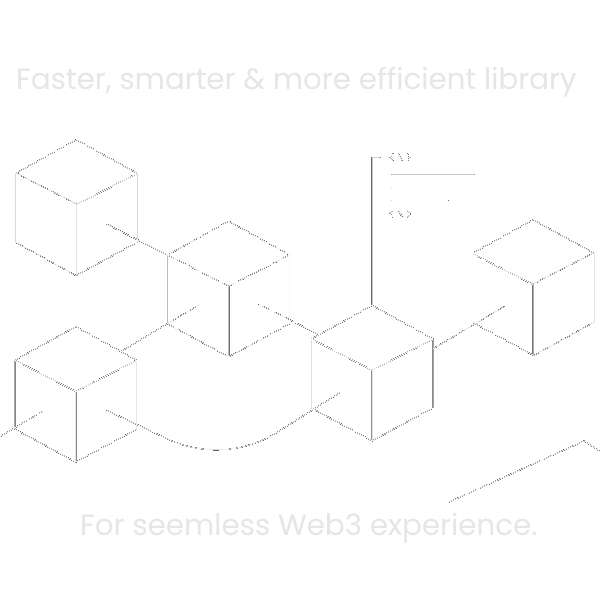
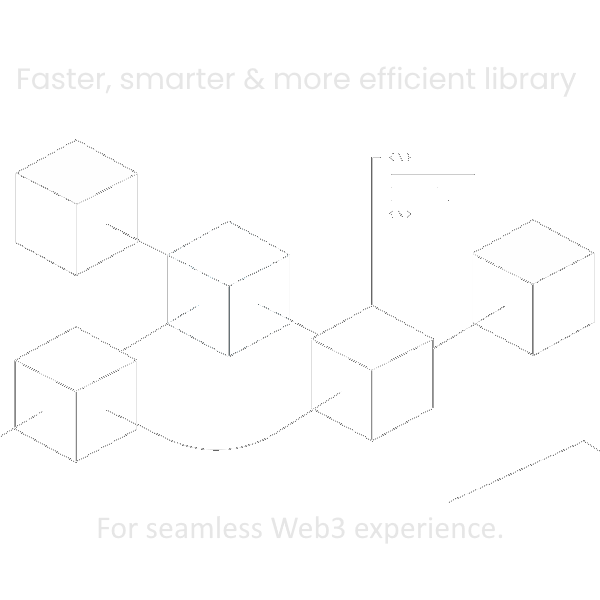
architecture + some changes

Changed region(s): [[0.15, 0.84, 0.9, 0.9]]

diff --git a/fresh.gen.ts b/fresh.gen.ts
@@ -8,13 +8,13 @@ import * as $about from "./routes/about.tsx";
 import * as $index from "./routes/index.tsx";
 import * as $roadmap from "./routes/roadmap.tsx";
 import * as $stats from "./routes/stats.tsx";
-import * as $Button from "./islands/Button.tsx";
-import * as $MarketBar from "./islands/MarketBar.tsx";
-import * as $MarketData from "./islands/MarketData.tsx";
-import * as $Web3Input from "./islands/Web3Input.tsx";
-import * as $menuButton from "./islands/menuButton.tsx";
-import * as $navbar from "./islands/navbar.tsx";
-import * as $tokendata from "./islands/tokendata.tsx";
+import * as $bridge_Web3Input from "./islands/bridge/Web3Input.tsx";
+import * as $common_Button from "./islands/common/Button.tsx";
+import * as $common_menuButton from "./islands/common/menuButton.tsx";
+import * as $common_navbar from "./islands/common/navbar.tsx";
+import * as $stats_MarketBar from "./islands/stats/MarketBar.tsx";
+import * as $stats_MarketData from "./islands/stats/MarketData.tsx";
+import * as $stats_tokendata from "./islands/stats/tokendata.tsx";
 import { type Manifest } from "$fresh/server.ts";
 
 const manifest = {
@@ -27,13 +27,13 @@ const manifest = {
     "./routes/stats.tsx": $stats,
   },
   islands: {
-    "./islands/Button.tsx": $Button,
-    "./islands/MarketBar.tsx": $MarketBar,
-    "./islands/MarketData.tsx": $MarketData,
-    "./islands/Web3Input.tsx": $Web3Input,
-    "./islands/menuButton.tsx": $menuButton,
-    "./islands/navbar.tsx": $navbar,
-    "./islands/tokendata.tsx": $tokendata,
+    "./islands/bridge/Web3Input.tsx": $bridge_Web3Input,
+    "./islands/common/Button.tsx": $common_Button,
+    "./islands/common/menuButton.tsx": $common_menuButton,
+    "./islands/common/navbar.tsx": $common_navbar,
+    "./islands/stats/MarketBar.tsx": $stats_MarketBar,
+    "./islands/stats/MarketData.tsx": $stats_MarketData,
+    "./islands/stats/tokendata.tsx": $stats_tokendata,
   },
   baseUrl: import.meta.url,
 } satisfies Manifest;

diff --git a/components/index/Animated.tsx b/components/index/Animated.tsx
@@ -30,7 +30,7 @@ export default function Animated() {
               ></div>
             </div>
             <a
-              class="font-medium font-[Poppins] z-10 tracking-tighter italic sm:mt-[7.5rem] mt-[7.5rem] text-[1.1rem] sm:text-[1.7rem] text-center dark:text-[#d2d2d2] text-[#3d3d3d]"
+              class="font-medium font-[Poppins] z-10 tracking-tighter sm:mt-[7.5rem] mt-[7.5rem] text-[1.1rem] sm:text-[1.7rem] text-center dark:text-[#d2d2d2] text-[#3d3d3d]"
               href="#info"
             >
               <div class="cursor-pointer text-[#3b2d82] dark:text-[#e0cdad] hover:scale-[105%]">

diff --git a/components/index/Info.tsx b/components/index/Info.tsx
@@ -1,4 +1,4 @@
-import Available from "../components/AvailableOn.tsx";
+import Available from "./AvailableOn.tsx";
 export default function Info() {
   const content1 =
     "DizzyHavoc is a new deployment method for smart contracts, specifically designed to reduce costs and enhance flexibility.";
@@ -32,7 +32,6 @@ export default function Info() {
         id="info"
         class="info
   font-medium
-  italic
   text-[1.7rem]
   unselectable
   sm:text-[2.5rem]

diff --git a/routes/_app.tsx b/routes/_app.tsx
@@ -1,5 +1,5 @@
-import Footer from '../components/Footer.tsx';
-import NavBar from '../islands/navbar.tsx';
+import Footer from '../components/common/Footer.tsx';
+import NavBar from '../islands/common/navbar.tsx';
 import { type PageProps } from "$fresh/server.ts";
 export default function App({ Component }: PageProps) {
   return (

diff --git a/components/index/AvailableOn.tsx b/components/index/AvailableOn.tsx
@@ -1,7 +1,7 @@
 export default function Available() {
   return (
     <div class=" mt-[1rem]">
-      <p class="font-[Poppins]  dark:text-[#d2d2d2] mb-2 text-[0.8rem] text-center">
+      <p class="font-[Poppins]  dark:text-[#d2d2d2] mb-2 text-[1.5rem] text-center">
         Available on:
         <br />
       </p>

diff --git a/routes/index.tsx b/routes/index.tsx
@@ -1,5 +1,5 @@
-import Info from "../components/Info.tsx";
-import Animated from "../components/Animated.tsx";
+import Info from "../components/index/Info.tsx";
+import Animated from "../components/index/Animated.tsx";
 export default function Home() {
   return (
     <>

diff --git a/routes/stats.tsx b/routes/stats.tsx
@@ -1,4 +1,4 @@
-import MarketData from "../islands/MarketData.tsx";
+import MarketData from "../islands/stats/MarketData.tsx";
 export default function Stats() {
   return (
       <div class="h-full sm:h-screen translate-y-0 sm:translate-y-[7%]">

diff --git a/islands/common/navbar.tsx b/islands/common/navbar.tsx
@@ -1,4 +1,4 @@
-import MenuButton from "../islands/menuButton.tsx";
+import MenuButton from "../common/menuButton.tsx";
 import { IS_BROWSER } from "$fresh/runtime.ts";
 export default function NavBar() {
     if(!IS_BROWSER) return <></>;
